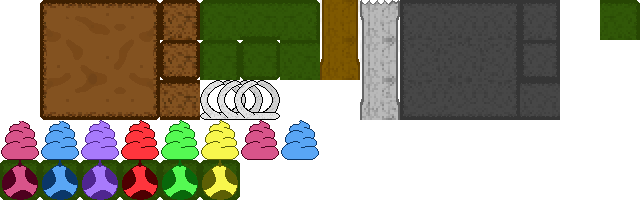
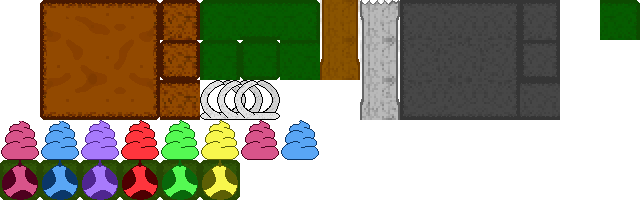
wing anim

Changed region(s): [[0.0625, 0.0, 0.5, 0.6], [0.9375, 0.0, 1.0, 0.21]]

diff --git a/src/rumblebees.rs b/src/rumblebees.rs
@@ -1,9 +1,9 @@
-use crate::game::{OnGameScreen, Speed, Bob, Displacement};
+use crate::game::{OnGameScreen, Speed, Bob, Displacement, AnimationTimer, AnimationIndices};
 use crate::pathfinding::FollowPath;
 use crate::terrain::{GAP_LEFT, TILE_SIZE};
 use crate::{prelude::*, GameState};
 use bevy::math::swizzles::Vec3Swizzles;
-use bevy::{prelude::*, window::PrimaryWindow};
+use bevy::prelude::*;
 use rand::Rng;
 
 use crate::Layers;
@@ -29,19 +29,17 @@ struct Beenitialized;
 
 fn rumblebee_setup(
     mut commands: Commands,
-    window_query: Query<&Window, With<PrimaryWindow>>,
     asset_server: Res<AssetServer>,
+    mut atlases: ResMut<Assets<TextureAtlas>>,
 ){
-    let window: &Window = window_query.get_single().unwrap();
-
     // Make the beez
     let num_beez = 10;
     for i in 0..num_beez {
         let pos = TilePos { x: 0, y : 0 };
         let bee_z = Layers::MIDGROUND + i as f32;
         let bee_pos = Vec3::new(
-            pos.x as f32 * TILE_SIZE + GAP_LEFT,//rng.gen_range(0.0..=1.0) * (window.width() - GAP_LEFT) + GAP_LEFT,
-            pos.y as f32 * TILE_SIZE, //rng.gen_range(0.0..=1.0) * (window.height() - TILE_SIZE) + TILE_SIZE,
+            pos.x as f32 * TILE_SIZE + GAP_LEFT,
+            pos.y as f32 * TILE_SIZE,
             bee_z,
         );
 
@@ -101,43 +99,22 @@ fn rumblebee_setup(
             ..default()
         }).id();
 
-        let wings = commands.spawn(SpriteBundle {
-            texture: asset_server.load("img/Creatures/Wings/wings-up.png"),
-            transform: Transform::from_xyz(0.,2., 0.01),
-            sprite: Sprite {
-                custom_size: Some(Vec2::new(50.0, 50.0)),
+        let wing_handle = asset_server.load("img/wings.png");
+        let wing_atlas = TextureAtlas::from_grid(wing_handle, Vec2::new(80.0, 80.0), 3, 1, None, None);
+        let wing_atlas_handle = atlases.add(wing_atlas);
+        let wing_anim = AnimationIndices { first: 0, last: 2 };
+        let wings = commands.spawn((
+            SpriteSheetBundle {
+                texture_atlas: wing_atlas_handle,
+                sprite: TextureAtlasSprite::new(wing_anim.first),
+                transform: Transform::from_xyz(0.,2., 0.01).with_scale(Vec3::splat(50./80.)),
                 ..default()
             },
-            ..default()
-        }).id();
+            wing_anim,
+            AnimationTimer(Timer::from_seconds(0.03 + (i as f32 * 0.01), TimerMode::Repeating)),
+        )).id();
 
         commands.entity(bee).push_children(&[wings, arm, eyes]);
-
-        /*
-    mut texture_atlases: ResMut<Assets<TextureAtlas>>,
-
-    let texture_handle = asset_server.load("img/gabe-idle-run.png");
-    let texture_atlas =
-        TextureAtlas::from_grid(texture_handle, Vec2::new(24.0, 24.0), 7, 1, None, None);
-
-    let texture_atlas_handle = texture_atlases.add(texture_atlas);
-    // Use only the subset of sprites in the sheet that make up the run animation
-    let animation_indices = AnimationIndices { first: 1, last: 6 };
-
-
-        commands.spawn((
-            SpriteSheetBundle {
-                texture_atlas: texture_atlas_handle,
-                sprite: TextureAtlasSprite::new(animation_indices.first),
-                transform: Transform::from_xyz(window.width() / 2.0, 100.0, 0.1)
-                    .with_scale(Vec3::splat(6.0)),
-                ..default()
-            },
-            animation_indices,
-            AnimationTimer(Timer::from_seconds(0.1, TimerMode::Repeating)),
-        ));
-        */
-
 
     }
 
@@ -149,16 +126,11 @@ fn set_unassigned_bees(
     tilemap: Query<(
         &TilemapSize,
         &TilemapGridSize,
-        &TilemapType,
-        &TileStorage,
         &Navmesh,
-        &Transform,
     ), Without<RumbleBee>>,
 ){
-    //let window: &Window = window_query.get_single().unwrap();
-
     if !tilemap.is_empty() {
-        let (map_size, grid_size, map_type, storage, navmesh, map_transform) = tilemap.single();
+        let (map_size, grid_size, navmesh) = tilemap.single();
         for (ent, mut transform) in ent.iter_mut() {
             let mut target = TilePos { x: 0, y: 0 };
             let mut rng = rand::thread_rng();

diff --git a/src/game.rs b/src/game.rs
@@ -2,7 +2,7 @@ use std::ops::Sub;
 
 use crate::pathfinding::{Navmesh, follow_path};
 use crate::rumblebees::RumbleBee;
-use crate::terrain::{Plant, GAP_LEFT};
+use crate::terrain::GAP_LEFT;
 use crate::{despawn_screen, prelude::*, GameState};
 use bevy::{input::mouse::MouseButtonInput, prelude::*, window::PrimaryWindow};
 use bevy_ecs_tilemap::tiles::TilePos;
@@ -52,41 +52,17 @@ pub struct OnGameScreen;
 struct GameTimer(Timer);
 
 #[derive(Component)]
-struct AnimationIndices {
-    first: usize,
-    last: usize,
+pub struct AnimationIndices {
+    pub first: usize,
+    pub last: usize,
 }
 
 #[derive(Component, Deref, DerefMut)]
-struct AnimationTimer(Timer);
+pub struct AnimationTimer(pub Timer);
 
 #[derive(Resource)]
 struct GameData {
     tiles: usize,
-}
-
-fn dbg_draw_path(
-    mut commands: Commands,
-    query: Query<(Entity, &Pathfinding), Added<Pathfinding>>
-) {
-    for (pf_ent, pf)in query.iter() {
-        for tile_pos in &pf.path {
-            let pos = Vec3::new(
-                tile_pos.x as f32 * 40.0 + GAP_LEFT + 20.0,
-                tile_pos.y as f32 * 40.0 + 20.0,
-                100.0);
-            let dot = commands.spawn(SpriteBundle {
-                sprite: Sprite {
-                    color: Color::rgb(0.7, 0.7, 0.7),
-                    custom_size: Some(Vec2::new(5.0, 5.0)),
-                    ..default()
-                },
-                transform: Transform::from_translation(pos),
-                ..default()
-            }).id();
-            //commands.entity(pf_ent).push_children(&[dot]);
-        }
-    }
 }
 
 /// Set the organisms pathfinding to go to the given tile.
@@ -97,13 +73,11 @@ fn find_target(
         &TilemapSize,
         &TilemapGridSize,
         &TilemapType,
-        &TileStorage,
         &Navmesh,
-        &Transform,
     )>,
-    plants: Query<(&Plant, &TilePos)>,
+    //plants: Query<(&Plant, &TilePos)>,
 ) {
-    let (map_size, grid_size, map_type, storage, navmesh, map_transform) = tilemap.single();
+    let (map_size, grid_size, map_type, navmesh) = tilemap.single();
     for entity in entity.iter() {
         let pos = &entity.1
             .translation.xy()
@@ -155,12 +129,11 @@ fn move_bob(time: Res<Time>, mut pos: Query<(&mut Transform, Option<&Displacemen
 }
 
 fn update_sprite(
-    mut query: Query<(&mut Transform, &mut Sprite, Option<&Displacement>)>
+    mut query: Query<(&mut Transform, Option<&Displacement>)>
 ) {
-    for (mut transform, mut sprite, displacement) in query.iter_mut() {
+    for (mut transform, displacement) in query.iter_mut() {
         if let Some(displacement) = displacement {
             if displacement.0.x != 0.0 {
-                //sprite.flip_x = displacement.0.x < 0.0;
                 transform.scale.x = if displacement.0.x < 0.0 { -1.0 } else { 1.0 };
             }
         }

diff --git a/src/pathfinding.rs b/src/pathfinding.rs
@@ -168,7 +168,7 @@ pub fn follow_path(
 ) {
     /// Distance to the target considered "at" the target.
     const TARGET_EPSILON: f32 = 5.0;
-    let (map_size, grid_size, map_type, storage, navmesh) = tilemap.single();
+    let (_map_size, grid_size, map_type, _storage, _navmesh) = tilemap.single();
     let delta_time = time.delta_seconds();
     for (entity, mut path, mut transform, speed, displacement) in &mut query {
         //TODO: get size from entity

diff --git a/src/inventory.rs b/src/inventory.rs
@@ -25,7 +25,6 @@ struct UIDirtAmount;
 
 fn ui_setup(
     mut commands: Commands,
-    assets: Res<AssetServer>,
 ) {
     commands.insert_resource(Inventory { dirt: DIRT_AMOUNT });
 

diff --git a/src/pointer.rs b/src/pointer.rs
@@ -1,5 +1,3 @@
-use bevy::input::{mouse::MouseButtonInput, ButtonState};
-
 use crate::prelude::*;
 use crate::terrain::Tile;
 
